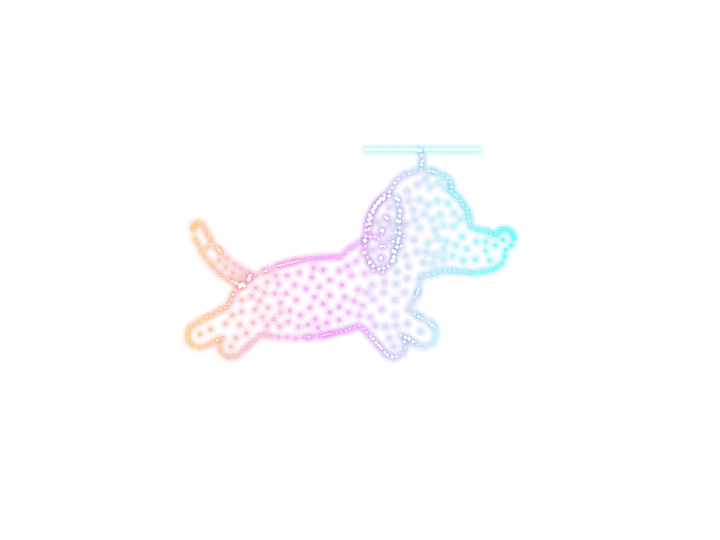
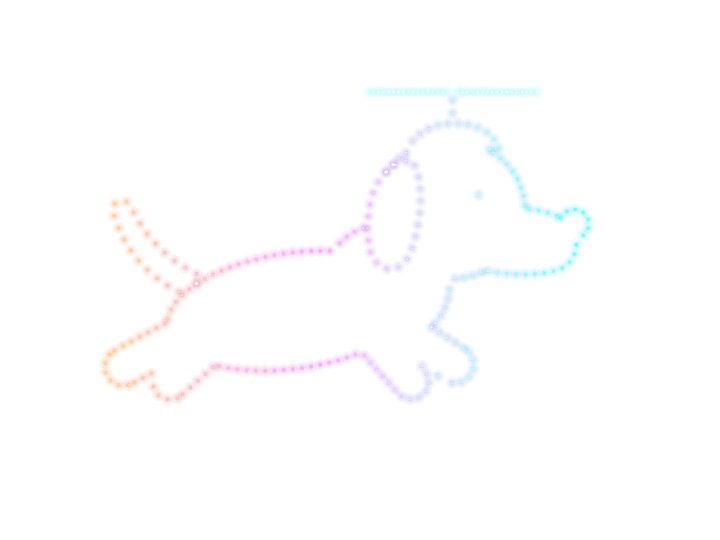
Chopper überall als Umriss aus einer Quelle, mehr Abstand zwischen Kindern und Chopper in der Spielszene

diff --git a/src/scripts/effects/chopper-play.js b/src/scripts/effects/chopper-play.js
@@ -1,4 +1,4 @@
-// Figuren der Chopper-Spielszene (Hochzeit, „Kinder und Hunde willkommen“), Runde 10: zwei Kinder und Chopper als Umriss.
+// Die beiden Kinder der Chopper-Spielszene (Hochzeit, „Kinder und Hunde willkommen“), Runde 10, als Umrissfiguren.
 // Marc, 20.11.2026: „Im Konfigurator hast du einen deutlich besseren Job gemacht, Menschen darzustellen. Random, dass da
 // Punkte überall an den Kleidern sind, die Arme so dicht besiedelt und die Beine, insbesondere bei den Mädchen, so wenig
 // besiedelt. Das Gesicht kann man nicht richtig erkennen; es muss deutlich cleaner und anthropomorpher sein.“
@@ -10,24 +10,16 @@
 // Kreis mit Haaransatz, zwei Augen und ein Lächeln als einzelne Lichter. Arme sind eigene Teile (sie drehen um die
 // Schulter), ihre Linien im Kleid bzw. im Ärmel fallen trotzdem weg.
 //
-// Chopper selbst ist in dieser Szene ebenfalls ein Umriss (playDog unten): Neben den Umrisskindern wirkte der gefüllte Hund
-// wie aus einer anderen Zeichnung. Geometrie und Gelenkpunkte sind dieselben wie in chopper.js (gleiche Ellipsen, Beine,
-// Ohr, Schwanz, Mütze), darum bewegt chopper-moods.js ihn unverändert. Danke-Seite und 404 behalten den gefüllten Hund.
+// Chopper selbst ist seit Runde 10b überall ein Umriss in derselben Bauweise (chopper.js); Flächen-, Hüll- und
+// Punkt-Helfer kommen von dort.
 //
-// Koordinaten Kinder: Figurrahmen, y oben, Füße bei y = 0, Kopfscheitel bei gut 1. Die Szene (chopper-moods.js) setzt die
-// Figur in ihre Bühne (y unten). Hund: Bühnenrahmen von chopper.js (toN, y unten).
+// Koordinaten: Figurrahmen, y oben, Füße bei y = 0, Kopfscheitel bei gut 1. Die Szene (chopper-moods.js) setzt die Figur in
+// ihre Bühne (y unten).
 import { ellipsoid, tube, curves, spot, assemble } from '../scenes/catalog-3d/kit.js';
+import { outlineShape as shape, ghost, outlinePoints as flat } from './chopper.js';
 
-/** Fläche aus einem Umriss (Kleid, T-Shirt, Hose): Linie und Innen-Test für die Vereinigung der Körper. */
-function shape(tag, pts) {
-  const c = pts.reduce((s, p) => [s[0] + p[0] / pts.length, s[1] + p[1] / pts.length], [0, 0]);
-  const hit = (x, y) => { let inside = false; for (let i = 0, j = pts.length - 1; i < pts.length; j = i++) { const [xi, yi] = pts[i], [xj, yj] = pts[j]; if ((yi > y) !== (yj > y) && x < ((xj - xi) * (y - yi)) / (yj - yi) + xi) inside = !inside; } return inside; };
-  return { tag, w: 1, solid: true, lines: [{ pts: pts.map(([x, y]) => [x, y, 0]), closed: true }], inside: (p, s = 1) => hit(c[0] + (p[0] - c[0]) / s, c[1] + (p[1] - c[1]) / s) };
-}
 /** Bogen als Punktliste (Saum, Lächeln). */
 const arc = (x0, x1, y, sag, k = 9) => Array.from({ length: k }, (_, i) => { const u = i / (k - 1), x = x0 + (x1 - x0) * u; return [x, y - sag * (1 - (2 * u - 1) ** 2), 0]; });
-/** Nur Innen-Test, keine Linie: ein Körper, in dem die Linien eines separat gebauten Teils (Arm) verschwinden. */
-const ghost = (part) => ({ tag: 'ghost', lines: [], solid: true, inside: part.inside });
 
 const HEAD = { c: [0, 0.85], r: [0.125, 0.135, 0.1] };
 /** Haare als Fläche, die dem Kopf folgt: außen ein Bogen knapp über dem Kopf (von Winkel a0 über den Scheitel bis a1),
@@ -63,8 +55,9 @@ const KIDS = {
     const dress = shape('dress', [[-0.055, 0.7], [0.055, 0.7], [0.1, 0.672], [0.088, 0.55], ...arc(0.185, -0.185, 0.33, -0.02, 11).map(([x, y]) => [x, y]), [-0.088, 0.55], [-0.1, 0.672]]);
     const legs = [-1, 1].map((s) => tube('skin', [[s * 0.06, 0.42, 0], [s * 0.06, 0.065, 0]], 0.035, { hoops: 0, crest: false, caps: [false, false] }));
     const shoes = [-1, 1].map((s) => ellipsoid('shoe', [s * 0.072, 0.034], [0.05, 0.03, 0.04]));
-    // Arme deutlich vom Kleid weg: neben dem Kleid entstünden Doppellinien
-    const shoulder = [0.088, 0.655], from = [0.096, 0.662], elbow = [0.19, 0.53], wrist = [0.252, 0.42];
+    // Arme deutlich vom Kleid weg (neben dem Kleid entstünden Doppellinien); Runde 10b 10 % kürzer, die Hand endet an der
+    // Hüfte statt am Oberschenkel: Das gibt Abstand zu Chopper, ohne die Szene breiter (also kleiner) zu machen
+    const shoulder = [0.088, 0.655], from = [0.096, 0.662], elbow = [0.181, 0.543], wrist = [0.236, 0.444];
     return { parts: [...head(), ...hair, dress, ...legs, ...shoes], armParts: (side) => [...arm(side, from, elbow, wrist), ghost(dress)], shoulder, hand: [wrist[0] + 0.012, wrist[1] - 0.028] };
   },
   boy: () => {
@@ -76,15 +69,14 @@ const KIDS = {
     const shorts = shape('shorts', [[-0.1, 0.442], [0.1, 0.442], [0.118, 0.3], [0.016, 0.3], [0, 0.37], [-0.016, 0.3], [-0.118, 0.3]]);
     const legs = [-1, 1].map((s) => tube('skin', [[s * 0.062, 0.36, 0], [s * 0.062, 0.065, 0]], 0.035, { hoops: 0, crest: false, caps: [false, false] }));
     const shoes = [-1, 1].map((s) => ellipsoid('shoe', [s * 0.074, 0.034], [0.05, 0.03, 0.04]));
-    const shoulder = [0.12, 0.64], from = [0.136, 0.6], elbow = [0.19, 0.5], wrist = [0.24, 0.4];
+    const shoulder = [0.12, 0.64], from = [0.136, 0.6], elbow = [0.185, 0.51], wrist = [0.23, 0.42];
     return { parts: [...head(), ...hair, shirt, shorts, ...legs, ...shoes], armParts: (side) => [...arm(side, from, elbow, wrist), ghost(shirt)], shoulder, hand: [wrist[0] + 0.012, wrist[1] - 0.028] };
   },
 };
 
 /** Drohnen je Teil (Körper, je Arm): gleicher Linienabstand wie bei den Katalogfiguren (~0,024 Figurhöhen). */
-export const KID_DRONES = { girl: { body: 170, arm: 30 }, boy: { body: 172, arm: 30 } };
+export const KID_DRONES = { girl: { body: 170, arm: 28 }, boy: { body: 172, arm: 28 } };
 
-const flat = (shape) => shape.pts.map((p, j) => ({ x: p[0], y: p[1], tag: shape.tags[j] }));
 /** Kind kind ('girl' | 'boy') als Punkte im Figurrahmen. */
 export function kidFigure(kind) {
   const k = KIDS[kind](), n = KID_DRONES[kind];
@@ -93,36 +85,4 @@ export function kidFigure(kind) {
     left: flat(assemble(k.armParts(-1), n.arm)), right: flat(assemble(k.armParts(1), n.arm)),
     shoulder: { left: [-k.shoulder[0], k.shoulder[1]], right: k.shoulder }, hand: { left: [-k.hand[0], k.hand[1]], right: k.hand },
   };
-}
-
-// ---------------------------------------------------------------- Chopper als Umriss ----------
-// Rahmen und Maßstab wie chopper.js: 400 × 300 SVG-Pixel auf 420 px Kante, normiert auf die längere Seite (y unten).
-const SK = (420 - 6) / 400, RW = Math.round(400 * SK) + 6, RH = Math.round(300 * SK) + 6, PX = (2 * SK) / RW;
-const N = (X, Y) => [(3 + X * SK - RW / 2) * 2 / RW, (3 + Y * SK - RH / 2) * 2 / RW, 0];
-/** Kubische Bézier-Pfade (Start + [c1, c2, Ende]…) als Punktliste in SVG-Pixeln. */
-const bezier = (start, segs, k = 10) => { const out = [start]; let p = start; for (const [c1, c2, e] of segs) { for (let i = 1; i <= k; i++) { const u = i / k, v = 1 - u; out.push([v ** 3 * p[0] + 3 * v * v * u * c1[0] + 3 * v * u * u * c2[0] + u ** 3 * e[0], v ** 3 * p[1] + 3 * v * v * u * c1[1] + 3 * v * u * u * c2[1] + u ** 3 * e[1]]); } p = e; } return out; };
-const svgShape = (tag, pts) => shape(tag, pts.map(([X, Y]) => N(X, Y).slice(0, 2)));
-const svgEllipse = (tag, cx, cy, rx, ry, rotDeg = 0) => ellipsoid(tag, N(cx, cy), [rx * PX, ry * PX, ry * PX], { roll: (rotDeg * Math.PI) / 180 });
-/** Bein: abgerundetes Rechteck wie in chopper.js (rect x y w h, rx = w/2, rotate(a cx cy)) als Röhre mit runden Enden. */
-const svgLeg = (x, y, w, h, a, cx, cy) => { const r = (a * Math.PI) / 180, R = ([X, Y]) => [cx + (X - cx) * Math.cos(r) - (Y - cy) * Math.sin(r), cy + (X - cx) * Math.sin(r) + (Y - cy) * Math.cos(r)]; return tube('dog', [N(...R([x + w / 2, y + w / 2])), N(...R([x + w / 2, y + h - w / 2]))], (w / 2) * PX, { hoops: 0, crest: false, caps: [true, true] }); };
-
-const DOG_BODY = () => {
-  const snout = svgShape('dog', bezier([300, 112], [[[330, 104], [362, 106], [374, 118]], [[384, 128], [380, 146], [366, 150]], [[346, 156], [318, 152], [300, 146]]]));
-  const hat = svgShape('hat', bezier([262, 70], [[[266, 44], [318, 40], [326, 66]]]));
-  return [svgEllipse('dog', 184, 178, 88, 40, -8), svgEllipse('dog', 248, 160, 44, 42), svgEllipse('dog', 292, 108, 52, 48), snout, svgEllipse('nose', 378, 118, 10, 10),
-    svgLeg(236, 176, 26, 78, -58, 249, 186), svgLeg(220, 182, 24, 70, -42, 232, 190), svgLeg(104, 180, 26, 80, 62, 117, 190), svgLeg(124, 186, 24, 70, 48, 136, 194),
-    hat, curves('hat', [[N(294, 28), N(294, 46)]]), spot('eye', N(312, 98), 1)];
-};
-const EAR = () => svgShape('ear', bezier([266, 74], [[[246, 74], [232, 98], [236, 132]], [[238, 150], [256, 156], [264, 140]], [[272, 120], [276, 92], [266, 74]]]));
-const TAIL = () => svgShape('tail', bezier([112, 168], [[[86, 158], [68, 138], [60, 112]], [[57, 101], [68, 98], [72, 107]], [[82, 128], [98, 144], [120, 154]]]));
-/** Drohnen je Teil des Umriss-Chopper (Linienabstand wie bei den Kindern in der Szene). */
-export const DOG_DRONES = { body: 150, ear: 22, tail: 20 };
-let dogCache = null;
-/** Chopper als Umriss in denselben Teilen wie chopperParts(): { body, ear, tail } als [{ x, y, tag }] (Bühnenrahmen). */
-export function playDog() {
-  if (dogCache) return dogCache;
-  const body = DOG_BODY(), ear = EAR(), tail = TAIL();
-  // Das Ohr liegt vor dem Kopf (dessen Linien darunter fallen weg), der Schwanz setzt im Rumpf an (seine Wurzel fällt weg)
-  dogCache = { body: flat(assemble([...body, ghost(ear)], DOG_DRONES.body)), ear: flat(assemble([ear], DOG_DRONES.ear)), tail: flat(assemble([tail, ghost(body[0])], DOG_DRONES.tail)) };
-  return dogCache;
 }

diff --git a/src/scripts/effects/chopper.js b/src/scripts/effects/chopper.js
@@ -1,43 +1,63 @@
 // Chopper, der Bürohund, als fliegende Drohnenformation. „Chopper“ ist Slang für Hubschrauber,
-// also trägt er eine Propellermütze. Silhouette aus gezeichneten Formen (gleiche Abtastung wie die
-// Logos), Ohr, Schwanz und Propeller sind eigene Teile und bewegen sich einzeln.
+// also trägt er eine Propellermütze. Ohr, Schwanz und Propeller sind eigene Teile und bewegen sich einzeln.
 // Rasse und Fellfarbe sind noch nicht bekannt: Mit einem Foto wird nur body/ear/tail neu gezeichnet.
-import { formation, gradientAt } from './swarm.js';
+//
+// Runde 10b (Marc, 20.11.2026: „Chopper kann ruhig auch in der 404-Seite und woanders ohne filling dots erscheinen“):
+// Chopper ist überall ein Umriss, gebaut wie die Katalogfiguren (scenes/catalog-3d/kit.js): Drohnen in gleichem Abstand
+// entlang der Linien, Linien eines Teils, die in einem anderen liegen, fallen weg. Geometrie wie die bisherige Silhouette
+// (dieselben Ellipsen, Beine, Ohr, Schwanz, Mütze im 400 × 300 Rahmen), darum stimmen alle Gelenkpunkte. Vorher war er
+// eine gefüllte SVG-Fläche, abgetastet wie ein Logo (330 + 40 + 34 Drohnen). Eine Quelle für 404, Danke-Seite, Team und
+// die Spielszene der Hochzeit (chopper-moods.js).
+import { ellipsoid, tube, curves, spot, assemble } from '../scenes/catalog-3d/kit.js';
+import { gradientAt } from './swarm.js';
 
-const VB = 'viewBox="0 0 400 300" width="400" height="300"';
-const BODY = `<svg xmlns="http://www.w3.org/2000/svg" ${VB}><g fill="#fff">
-  <ellipse cx="184" cy="178" rx="88" ry="40" transform="rotate(-8 184 178)"/>
-  <ellipse cx="248" cy="160" rx="44" ry="42"/>
-  <ellipse cx="292" cy="108" rx="52" ry="48"/>
-  <path d="M300 112 C330 104 362 106 374 118 C384 128 380 146 366 150 C346 156 318 152 300 146 Z"/>
-  <circle cx="378" cy="118" r="10"/>
-  <rect x="236" y="176" width="26" height="78" rx="13" transform="rotate(-58 249 186)"/>
-  <rect x="220" y="182" width="24" height="70" rx="12" transform="rotate(-42 232 190)"/>
-  <rect x="104" y="180" width="26" height="80" rx="13" transform="rotate(62 117 190)"/>
-  <rect x="124" y="186" width="24" height="70" rx="12" transform="rotate(48 136 194)"/>
-  <path d="M262 70 C266 44 318 40 326 66 Z"/>
-  <rect x="291" y="26" width="6" height="22" rx="3"/>
-</g><circle cx="312" cy="98" r="7" fill="#000"/></svg>`;
-const EAR = `<svg xmlns="http://www.w3.org/2000/svg" ${VB}><path fill="#fff" d="M266 74 C246 74 232 98 236 132 C238 150 256 156 264 140 C272 120 276 92 266 74 Z"/></svg>`;
-const TAIL = `<svg xmlns="http://www.w3.org/2000/svg" ${VB}><path fill="#fff" d="M112 168 C86 158 68 138 60 112 C57 101 68 98 72 107 C82 128 98 144 120 154 Z"/></svg>`;
+/** Fläche aus einem Umriss (Kleid, T-Shirt, Hose): Linie und Innen-Test für die Vereinigung der Körper. */
+export function outlineShape(tag, pts) {
+  const c = pts.reduce((s, p) => [s[0] + p[0] / pts.length, s[1] + p[1] / pts.length], [0, 0]);
+  const hit = (x, y) => { let inside = false; for (let i = 0, j = pts.length - 1; i < pts.length; j = i++) { const [xi, yi] = pts[i], [xj, yj] = pts[j]; if ((yi > y) !== (yj > y) && x < ((xj - xi) * (y - yi)) / (yj - yi) + xi) inside = !inside; } return inside; };
+  return { tag, w: 1, solid: true, lines: [{ pts: pts.map(([x, y]) => [x, y, 0]), closed: true }], inside: (p, s = 1) => hit(c[0] + (p[0] - c[0]) / s, c[1] + (p[1] - c[1]) / s) };
+}
+/** Nur Innen-Test, keine Linie: ein Körper, in dem die Linien eines separat gebauten Teils (Arm) verschwinden. */
+export const ghost = (part) => ({ tag: 'ghost', lines: [], solid: true, inside: part.inside });
+/** Ergebnis von assemble() als [{ x, y, tag }]. */
+export const outlinePoints = (shape) => shape.pts.map((p, j) => ({ x: p[0], y: p[1], tag: shape.tags[j] }));
 
-// Gleicher Rahmen wie rasterize(): 400×300 auf 420 px Kante, 3 px Rand, normiert auf die längere Seite
-const S = (420 - 6) / 400, RW = Math.round(400 * S) + 6, RH = Math.round(300 * S) + 6;
+// Gleicher Rahmen wie die Silhouette bisher: 400 × 300 SVG-Pixel auf 420 px Kante, 3 px Rand, normiert auf die längere Seite
+const S = (420 - 6) / 400, RW = Math.round(400 * S) + 6, RH = Math.round(300 * S) + 6, PX = (2 * S) / RW;
 const toN = (X, Y) => [(3 + X * S - RW / 2) * 2 / RW, (3 + Y * S - RH / 2) * 2 / RW];
+const N = (X, Y) => [...toN(X, Y), 0];
+/** Kubische Bézier-Pfade (Start + [c1, c2, Ende]…) als Punktliste in SVG-Pixeln. */
+const bezier = (start, segs, k = 10) => { const out = [start]; let p = start; for (const [c1, c2, e] of segs) { for (let i = 1; i <= k; i++) { const u = i / k, v = 1 - u; out.push([v ** 3 * p[0] + 3 * v * v * u * c1[0] + 3 * v * u * u * c2[0] + u ** 3 * e[0], v ** 3 * p[1] + 3 * v * v * u * c1[1] + 3 * v * u * u * c2[1] + u ** 3 * e[1]]); } p = e; } return out; };
+const svgShape = (tag, pts) => outlineShape(tag, pts.map(([X, Y]) => N(X, Y).slice(0, 2)));
+const svgEllipse = (tag, cx, cy, rx, ry, rotDeg = 0) => ellipsoid(tag, N(cx, cy), [rx * PX, ry * PX, ry * PX], { roll: (rotDeg * Math.PI) / 180 });
+/** Bein: abgerundetes Rechteck wie in der Silhouette (rect x y w h, rx = w/2, rotate(a cx cy)) als Röhre mit runden Enden. */
+const svgLeg = (x, y, w, h, a, cx, cy) => { const r = (a * Math.PI) / 180, R = ([X, Y]) => [cx + (X - cx) * Math.cos(r) - (Y - cy) * Math.sin(r), cy + (X - cx) * Math.sin(r) + (Y - cy) * Math.cos(r)]; return tube('dog', [N(...R([x + w / 2, y + w / 2])), N(...R([x + w / 2, y + h - w / 2]))], (w / 2) * PX, { hoops: 0, crest: false, caps: [true, true] }); };
 
-const PARTS = { body: 330, ear: 40, tail: 34 };
+const DOG_BODY = () => {
+  const snout = svgShape('dog', bezier([300, 112], [[[330, 104], [362, 106], [374, 118]], [[384, 128], [380, 146], [366, 150]], [[346, 156], [318, 152], [300, 146]]]));
+  const hat = svgShape('hat', bezier([262, 70], [[[266, 44], [318, 40], [326, 66]]]));
+  return [svgEllipse('dog', 184, 178, 88, 40, -8), svgEllipse('dog', 248, 160, 44, 42), svgEllipse('dog', 292, 108, 52, 48), snout, svgEllipse('nose', 378, 118, 10, 10),
+    svgLeg(236, 176, 26, 78, -58, 249, 186), svgLeg(220, 182, 24, 70, -42, 232, 190), svgLeg(104, 180, 26, 80, 62, 117, 190), svgLeg(124, 186, 24, 70, 48, 136, 194),
+    hat, curves('hat', [[N(294, 28), N(294, 46)]]), spot('eye', N(312, 98), 1)];
+};
+const EAR = () => svgShape('ear', bezier([266, 74], [[[246, 74], [232, 98], [236, 132]], [[238, 150], [256, 156], [264, 140]], [[272, 120], [276, 92], [266, 74]]]));
+const TAIL = () => svgShape('tail', bezier([112, 168], [[[86, 158], [68, 138], [60, 112]], [[57, 101], [68, 98], [72, 107]], [[82, 128], [98, 144], [120, 154]]]));
+/** Drohnen je Teil (Linienabstand wie bei den Kindern der Spielszene). */
+const PARTS = { body: 150, ear: 22, tail: 20 };
 const BLADE = 17; // Drohnen je Rotorblatt
 export const CHOPPER_COUNT = PARTS.body + PARTS.ear + PARTS.tail + BLADE * 2;
 
 let cache = null;
-async function parts() {
+/** Chopper als Umriss: { body, ear, tail } als [{ x, y, tag }] im Bühnenrahmen (y unten). */
+function outline() {
   if (cache) return cache;
-  // gleicher Rahmen für alle Teile: nicht auf den Inhalt zuschneiden
-  const [body, ear, tail] = await Promise.all([[BODY, PARTS.body], [EAR, PARTS.ear], [TAIL, PARTS.tail]]
-    .map(([markup, n]) => formation({ kind: 'svg', markup, noCrop: true }, n)));
-  cache = { body, ear, tail };
+  const body = DOG_BODY(), ear = EAR(), tail = TAIL();
+  // Das Ohr liegt vor dem Kopf (dessen Linien darunter fallen weg), der Schwanz setzt im Rumpf an (seine Wurzel fällt weg)
+  cache = { body: outlinePoints(assemble([...body, ghost(ear)], PARTS.body)), ear: outlinePoints(assemble([ear], PARTS.ear)), tail: outlinePoints(assemble([tail, ghost(body[0])], PARTS.tail)) };
   return cache;
 }
+/** Teile wie bisher asynchron (Aufrufer warten darauf); gerechnet wird synchron in gut 20 ms, einmal je Seite. */
+async function parts() { return outline(); }
 
 /** Farben je Drohne: Fell im FlyingStars-Verlauf, Propeller kühl. */
 export function chopperColors(p) {
@@ -93,4 +113,4 @@ export async function chopperBehaviour(getAttention) {
     }
   };
 }
-export { parts as chopperParts };
+export { parts as chopperParts, outline as chopperOutline };

diff --git a/src/scripts/effects/chopper-moods.js b/src/scripts/effects/chopper-moods.js
@@ -7,7 +7,7 @@
 // Koordinaten wie chopper.js (400 × 300 Rahmen). Bei reduzierter Bewegung (T = 0) zeigt jede Stimmung ein Standbild.
 import { gradientAt, hash } from './swarm.js';
 import { chopperParts, CHOPPER_COUNT } from './chopper.js';
-import { kidFigure, KID_DRONES, playDog, DOG_DRONES } from './chopper-play.js';
+import { kidFigure, KID_DRONES } from './chopper-play.js';
 
 const S = (420 - 6) / 400, RW = Math.round(400 * S) + 6, RH = Math.round(300 * S) + 6;
 const toN = (X, Y) => [(3 + X * S - RW / 2) * 2 / RW, (3 + Y * S - RH / 2) * 2 / RW];
@@ -38,8 +38,8 @@ export const PLAY_SCALE = 0.75;
 export const PLAY_BOX = { w: 2.44, h: 1.08 };
 /** Maßstab des Schwarms (Anteil der kürzeren Bühnenseite je Einheit), damit PLAY_BOX in eine Bühne w × h passt. */
 export const playScale = (w, h) => Math.min(w / PLAY_BOX.w, h / PLAY_BOX.h) / Math.min(w, h);
-// Spielszene: Chopper als Umriss (chopper-play.js), mit eigener Drohnenzahl; Danke-Seite: der gefüllte Hund
-const DOG = CHOPPER_COUNT, PLAY_DOG = DOG_DRONES.body + DOG_DRONES.ear + DOG_DRONES.tail + BLADE * 2;
+// Chopper ist in allen Stimmungen derselbe Umriss (chopper.js, Runde 10b)
+const DOG = CHOPPER_COUNT, PLAY_DOG = CHOPPER_COUNT;
 export const MOOD_COUNT = { happy: DOG, play: PLAY_DOG + kidCount('girl') + kidCount('boy') + BALL + DISC };
 
 const rot = (x, y, cx, cy, a) => { const c = Math.cos(a), s = Math.sin(a), dx = x - cx, dy = y - cy; return [cx + dx * c - dy * s, cy + dx * s + dy * c]; };
@@ -110,7 +110,7 @@ function happyPose(t) {
  * @param {'happy'|'play'} mood
  */
 export async function chopperMood(mood) {
-  const p = mood === 'play' ? playDog() : await chopperParts();
+  const p = await chopperParts();
   const mask = headMask(p.body);
   const count = MOOD_COUNT[mood];
   const colors = new Uint8Array(count * 3);
@@ -138,7 +138,12 @@ export async function chopperMood(mood) {
   // ---------- play: 12,4 s, erst wirft das Mädchen (Ball), dann der Junge (Frisbee) ----------
   const P = 12.4, H = P / 2, w = TAU / P;
   // K: Kinderhöhe in Einheiten (Figurrahmen 0…1 → Bühne); floor: Boden, so dass PLAY_BOX mittig steht
-  const K = 0.86, dogSize = 0.53, floor = 0.5, girlX = -0.8, boyX = 0.8; // ±0,76: Frisbee berührte die Schwanzspitze
+  // Abstand Kind ↔ Chopper (Runde 10b, Marc: „Die Kinder brauchen nur etwas mehr Abstand zu Chopper“): Chopper steht genau
+  // mittig, sein Schwanz wedelt höher (TAIL_UP, sonst schlug die Spitze in die Hand des wartenden Kindes), die Kinder
+  // stehen bei ±0,83 mit kürzeren Armen (chopper-play.js). Der Rahmen PLAY_BOX bleibt, die Szene also gleich groß.
+  // Wächter: scripts/chopper-play.test.mjs (Mindestabstand über die ganze Schleife).
+  const TAIL_UP = 0.3, TAIL_WAG = 0.3;
+  const K = 0.86, dogSize = 0.53, floor = 0.5, girlX = -0.84, boyX = 0.82, dogX = -0.01; // der Junge ist mit breiteren Schultern 0,02 weiter
   const kidY = floor, dogY = floor - (toN(0, 254)[1] - toN(0, 160)[1]) * dogSize;
   // Wurfarm: ausholen, nach vorn schwingen (Abwurf bei 0,85 s), zurück; Winkel für den Wurf nach rechts
   const throwAngle = (v) => v < 0.6 ? 0.9 * ease(v / 0.6) : v < 0.85 ? 0.9 - 3 * ease((v - 0.6) / 0.25) : v < 1.6 ? -2.1 * (1 - ease((v - 0.85) / 0.75)) : 0;
@@ -161,9 +166,9 @@ export async function chopperMood(mood) {
     const jk = span(v, 1.55, 2.65), jump = -0.3 * Math.sin(Math.PI * jk) ** 2;
     const excite = hill(v, 2.0, 4.0, 0.3);
     const dogPose = (f) => ({
-      x: 0.02, y: dogY + jump, size: dogSize, face: f,
+      x: dogX, y: dogY + jump, size: dogSize, face: f,
       spin: -0.32 * Math.sin(Math.PI * jk) ** 2, head: -0.22 * Math.sin(Math.PI * jk) ** 2 + 0.04 * Math.sin(4 * w * u),
-      tail: (0.4 + 0.18 * excite) * Math.sin(24 * w * u), ear: 0.18 * Math.sin(6 * w * u) - 0.45 * Math.sin(TAU * jk) * (jk > 0 && jk < 1 ? 1 : 0),
+      tail: TAIL_UP + (TAIL_WAG + 0.15 * excite) * Math.sin(24 * w * u), ear: 0.18 * Math.sin(6 * w * u) - 0.45 * Math.sin(TAU * jk) * (jk > 0 && jk < 1 ? 1 : 0),
       blade: (40 * Math.PI / P) * u,
     });
     // Wende zum anderen Kind am Ende jeder Hälfte als lebendige Wolke (wie die 404)

diff --git a/docs/himmel.md b/docs/himmel.md
@@ -153,14 +153,19 @@ wie auf der Startseite sehr gut passen.“ Dieselbe Technik, `createFolge(canvas
   erkennen“). Ursache: Die Kinder waren gefüllte SVG-Flächen, abgetastet wie ein Logo, mit fester Drohnenzahl je Teil statt
   nach Linienlänge. Jetzt `effects/chopper-play.js` nach der Methode der Katalogfiguren (`catalog-3d/kit.js`): nur Umrisse,
   Drohnen in gleichem Abstand entlang der Linien, verdeckte Linien fallen weg; Kopf als Kreis, Haare als Fläche, die dem Kopf
-  folgt (eine eigene Kappe las sich als Mütze), Augen und Lächeln als einzelne Lichter. Chopper ist in dieser Szene ebenfalls ein
-  Umriss aus seiner echten Geometrie (gleiche Ellipsen, Beine, Ohr, Schwanz, Mütze wie `chopper.js`); Danke-Seite und 404
-  behalten den gefüllten Hund. Größe: Die Szene setzt `sw.scale` je Frame aus ihrem über eine Schleife gemessenen Rahmen
+  folgt (eine eigene Kappe las sich als Mütze), Augen und Lächeln als einzelne Lichter. Chopper ist ein Umriss aus seiner echten
+  Geometrie (gleiche Ellipsen, Beine, Ohr, Schwanz, Mütze). Runde 10b (Marc: „Chopper kann ruhig auch in der 404-Seite und
+  woanders ohne filling dots erscheinen“): eine Quelle in `chopper.js` (`chopperParts`, 226 Drohnen) für 404, Danke-Seite, Team
+  und Spielszene; Standbilder `play.webp` und `happy.webp` neu. Abstand Kind ↔ Chopper (Runde 10b, Marc: „Die Kinder brauchen
+  nur etwas mehr Abstand zu Chopper“): Die Schwanzspitze schlug beim Wedeln in die Hand des wartenden Kindes, der Wurfarm reichte
+  an den Hund. Jetzt wedelt der Schwanz höher, Chopper steht mittig, die Arme der Kinder sind 10 % kürzer (Hand an der Hüfte)
+  und die Kinder stehen dafür weiter außen; kleinster Abstand über die Schleife 0,12 / 0,10 statt 0,064 / 0,033 Einheiten,
+  Rahmen und Größe unverändert. Größe: Die Szene setzt `sw.scale` je Frame aus ihrem über eine Schleife gemessenen Rahmen
   (`PLAY_BOX` 2,44 × 1,08 Einheiten, die breiteste Stelle ist der Jubelarm in der Waagerechten); bei 1440 px sind die Kinder
-  rund 260 statt 200 px hoch, bei 1920 px rund 355 px. Standbild ohne JavaScript neu aus dem Renderer:
+  rund 260 statt 200 px hoch, bei 1920 px rund 355 px. Standbilder ohne JavaScript neu aus dem Renderer:
   `node tools/chopper-standbild.mjs <basis-url>`. Wächter: `scripts/chopper-play.test.mjs` (Linienabstand je Körperteil ±30 %,
-  keine Füllung im Oberkörper, Gesicht mit zwei Augen und Mund und nichts Fremdem, Hund gleich dicht, jede Drohne über eine
-  ganze Schleife im Rahmen).
+  keine Füllung im Oberkörper, Gesicht mit zwei Augen und Mund und nichts Fremdem, Hund gleich dicht und ohne Füllung aus einer
+  Quelle, jede Drohne über eine ganze Schleife im Rahmen, Mindestabstand Kind ↔ Chopper 0,095).
 - **Start:** Modul lädt, wenn die Bühne näher als 300 px ist (`whenNear`); das erste Motiv entsteht in Leerlauf-Tasks; los geht es,
   wenn ein Drittel der Bühne im Bild ist: Die Drohnen steigen dunkel von unten auf und bilden das Herz. Pause-Taste und reduzierte
   Bewegung: das Herz steht. Ohne JavaScript bleibt die Bühne weg, der Text steht allein.
